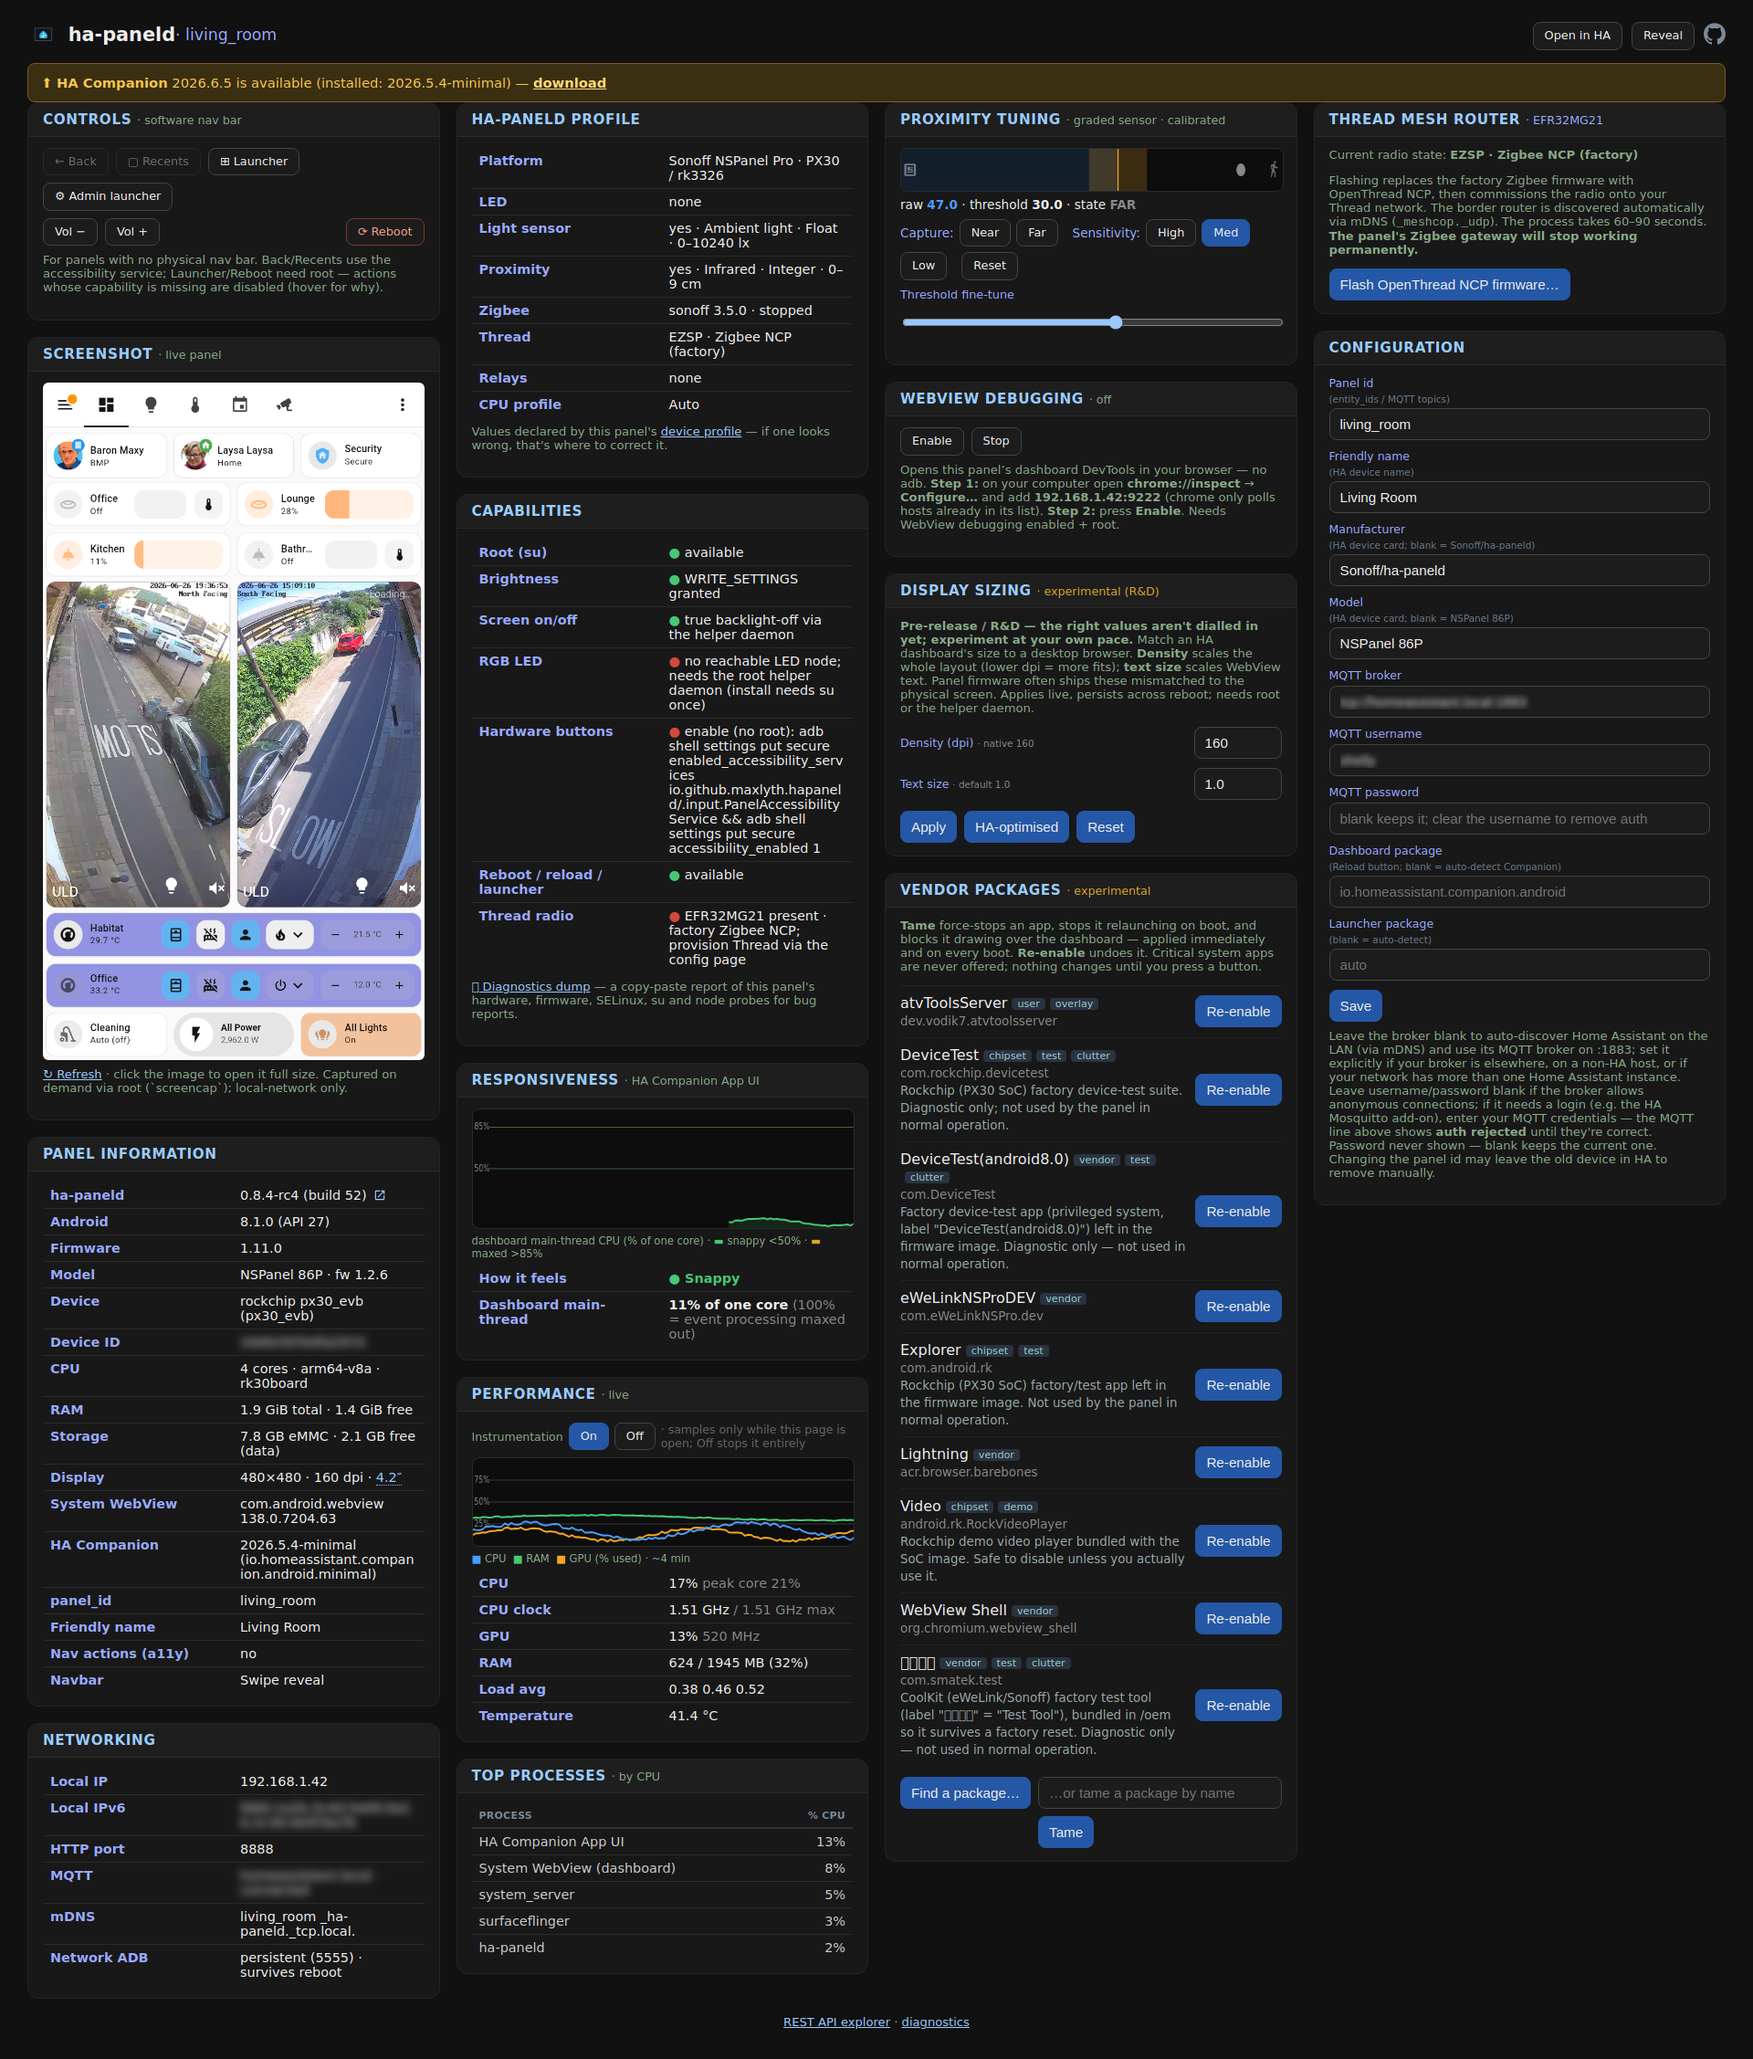
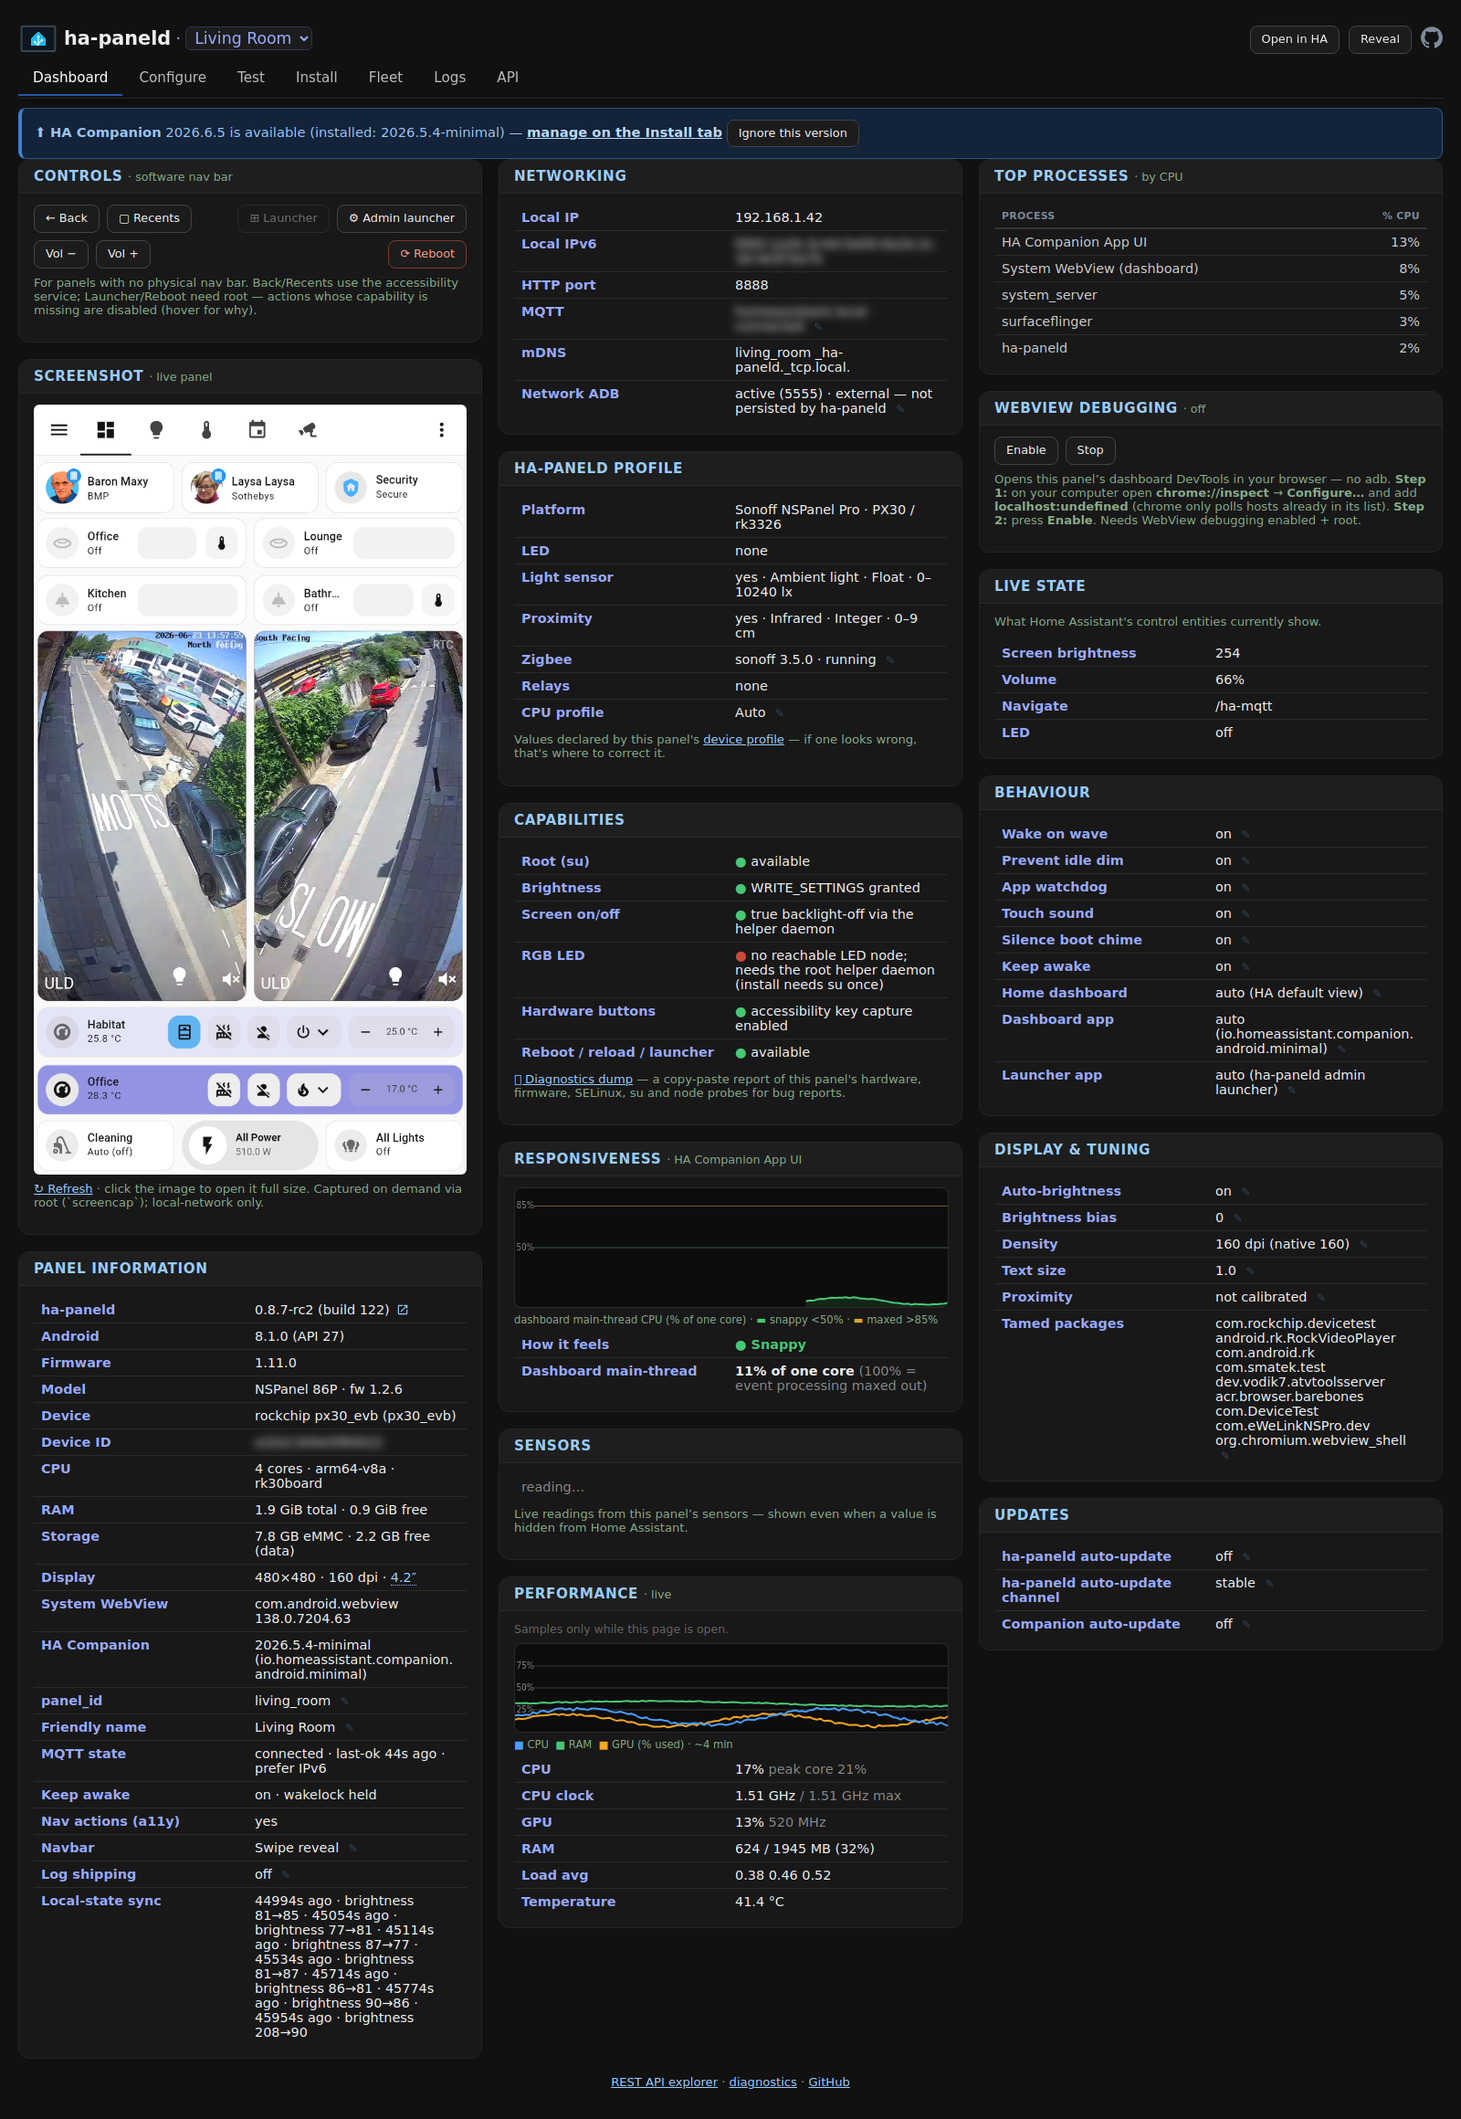
chore(release): 0.8.7-rc2

diff --git a/docs/roadmap.md b/docs/roadmap.md
@@ -54,5 +54,4 @@ Larger directions that aren't on the v1.0 path but fit a panel agent well — an
 2. **Micro wake word → HA conversation agents** — on-device wake-word detection (microWakeWord / openWakeWord) so the panel acts as a voice satellite: detect the wake word locally, then stream audio to a Home Assistant Assist pipeline / conversation agent. Overlaps with HA Voice PE, ESPHome voice satellites and Atom Echo — but on hardware already mounted on the wall.
 3. **Push-to-talk (PTT) intercom** — press-and-hold on one panel to talk live on another room's panel over the LAN: low-latency, direct panel-to-panel, no cloud. Reuses the mic-capture + speaker-playback primitives. Overlaps with Alexa/Sonos drop-in, but local-only and across mixed hardware.
 4. **Remote control via the web UI — beyond tap** — the 0.8.5 Test tab already does remote **tap** (click the live screenshot to send a touch) plus the nav actions; extend it with **swipe/drag**, keyboard input, and a faster capture path (the current poll-a-PNG loop is fine for taps, too slow for scrolling). Overlaps with Fully Kiosk remote admin and scrcpy/VNC, but integrated and permissionless where root is available.
-5. **Wall-panel-native notifications** — Home Assistant notifications today arrive via the HA Companion app, whose model is built for a **phone in your pocket** (heads-up + a pull-down shade) — wrong shape for an always-on wall panel. Render an HA-sent notification as a **banner or full-screen overlay over the dashboard** (reusing the system-overlay mechanism the navbar already uses), with optional **wake-screen, TTS announce, and LED/backlight flash**, an **auto-dismiss timeout**, and an **acknowledge** action published back to HA. Overlaps with Fully Kiosk's to-foreground-on-message / alarm screens and vendor panels' popup alerts — but driven by HA over the existing MQTT/HTTP surface.
-6. **DLNA / UPnP media renderer** — advertise the panel as a UPnP/DLNA media renderer so Home Assistant auto-discovers it as a `media_player`. It would appear as a **separate** HA device (MQTT discovery has no media_player platform, so it can't join the panel's MQTT-discovery device), and the shipped [TTS recipe](tts.md) already covers the main announce case — so this is an interest-gauge, not a commitment.
+5. **DLNA / UPnP media renderer** — advertise the panel as a UPnP/DLNA media renderer so Home Assistant auto-discovers it as a `media_player`. It would appear as a **separate** HA device (MQTT discovery has no media_player platform, so it can't join the panel's MQTT-discovery device), and the shipped [TTS recipe](tts.md) already covers the main announce case — so this is an interest-gauge, not a commitment.

diff --git a/CHANGELOG.md b/CHANGELOG.md
@@ -8,6 +8,19 @@ From **v0.8.0**, entries are grouped under **Added** (new features/entities), **
 changes to existing features), **Fixed** (bug fixes), and **Docs** (documentation) — only groups with
 content appear. Earlier releases predate this convention and keep their flat lists.
 
+## v0.8.7-rc2 - 2026-07-06
+
+### Added
+
+- **Room temperature & humidity on the Tuya TPA10** — the onboard CHT8305 chip is exposed as opt-in Room temperature / Room humidity sensors in Home Assistant (proper temperature/humidity device classes, off by default), with a per-panel calibration offset to correct for panel self-heating.
+
+### Changed
+
+- **Responsive `:8888` header** — a sticky top bar that never scrolls away; on a narrow/single-column panel the tab bar collapses to a hamburger menu and header items progressively hide instead of wrapping, so the header never overflows. The GitHub link stays reachable on every tab and in the footer.
+- **Config & controls polish** — the "expose to Home Assistant" control is now a link / broken-link icon toggle, checkbox rows lay out correctly, and the Controls action buttons collapse to icons when the row would otherwise wrap.
+- **"Open in Home Assistant" is more reliable** — it falls back to the URL the HA Companion already uses when the panel's own HA device-page URL can't resolve (e.g. a remote panel over a tunnel), so the button appears on every tab whenever a Companion is configured.
+- **Removed the low-value instrumentation master switch** — the performance sampler and sensor trace are always on (still page-view gated, which is the real cost control).
+
 ## v0.8.7-rc1 - 2026-07-06
 
 ### Changed
